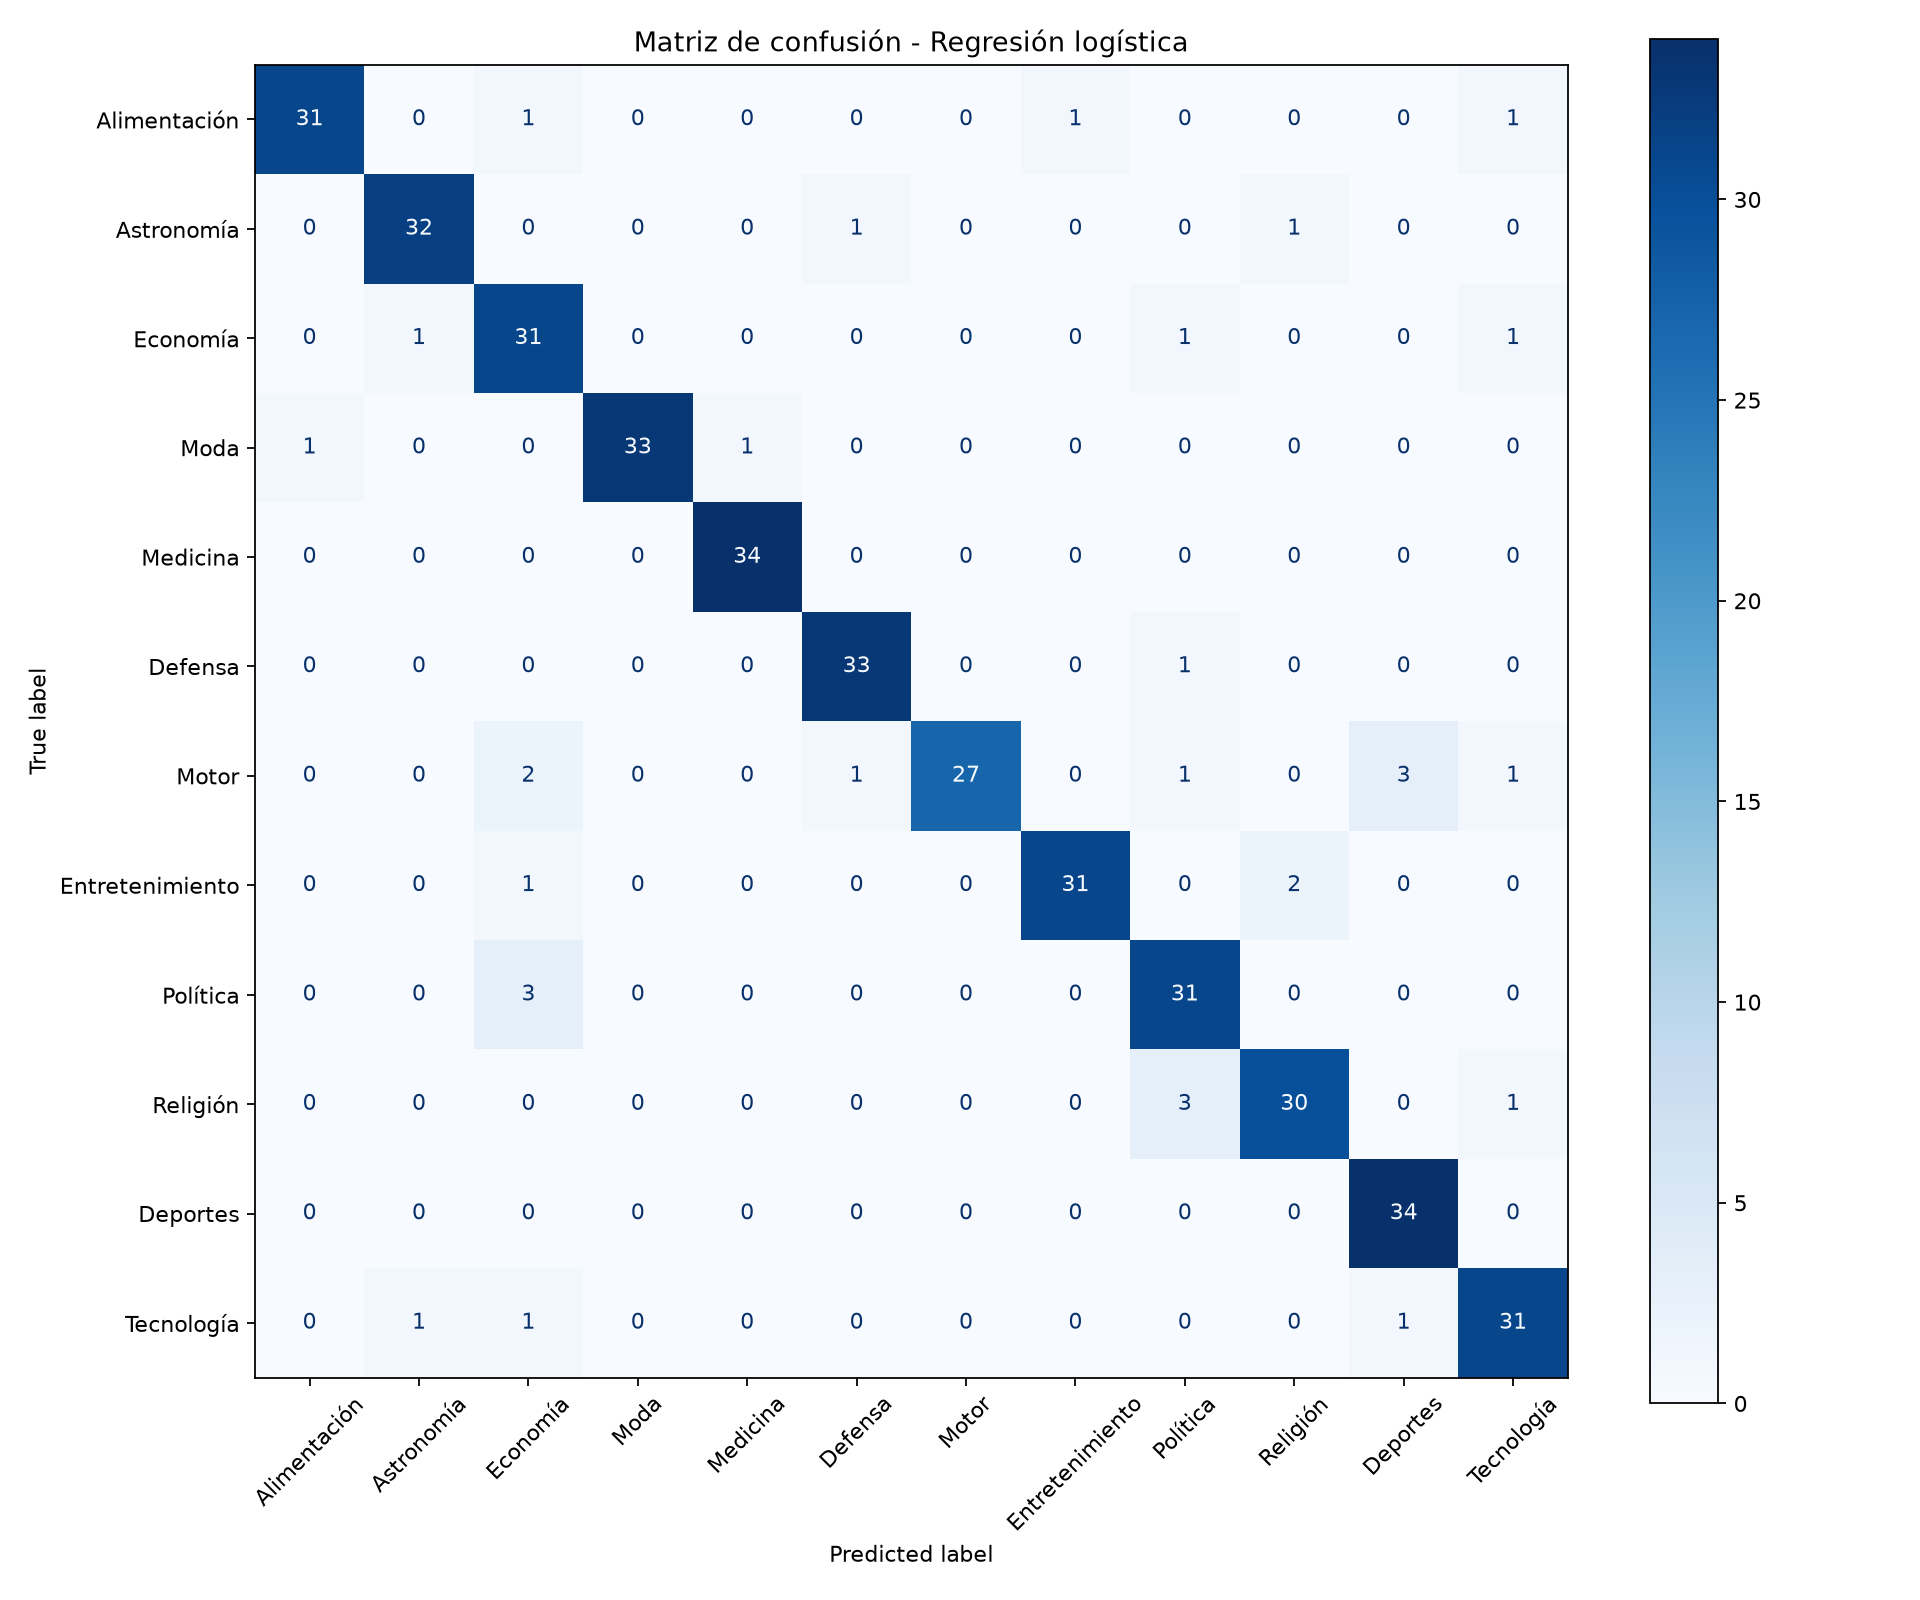
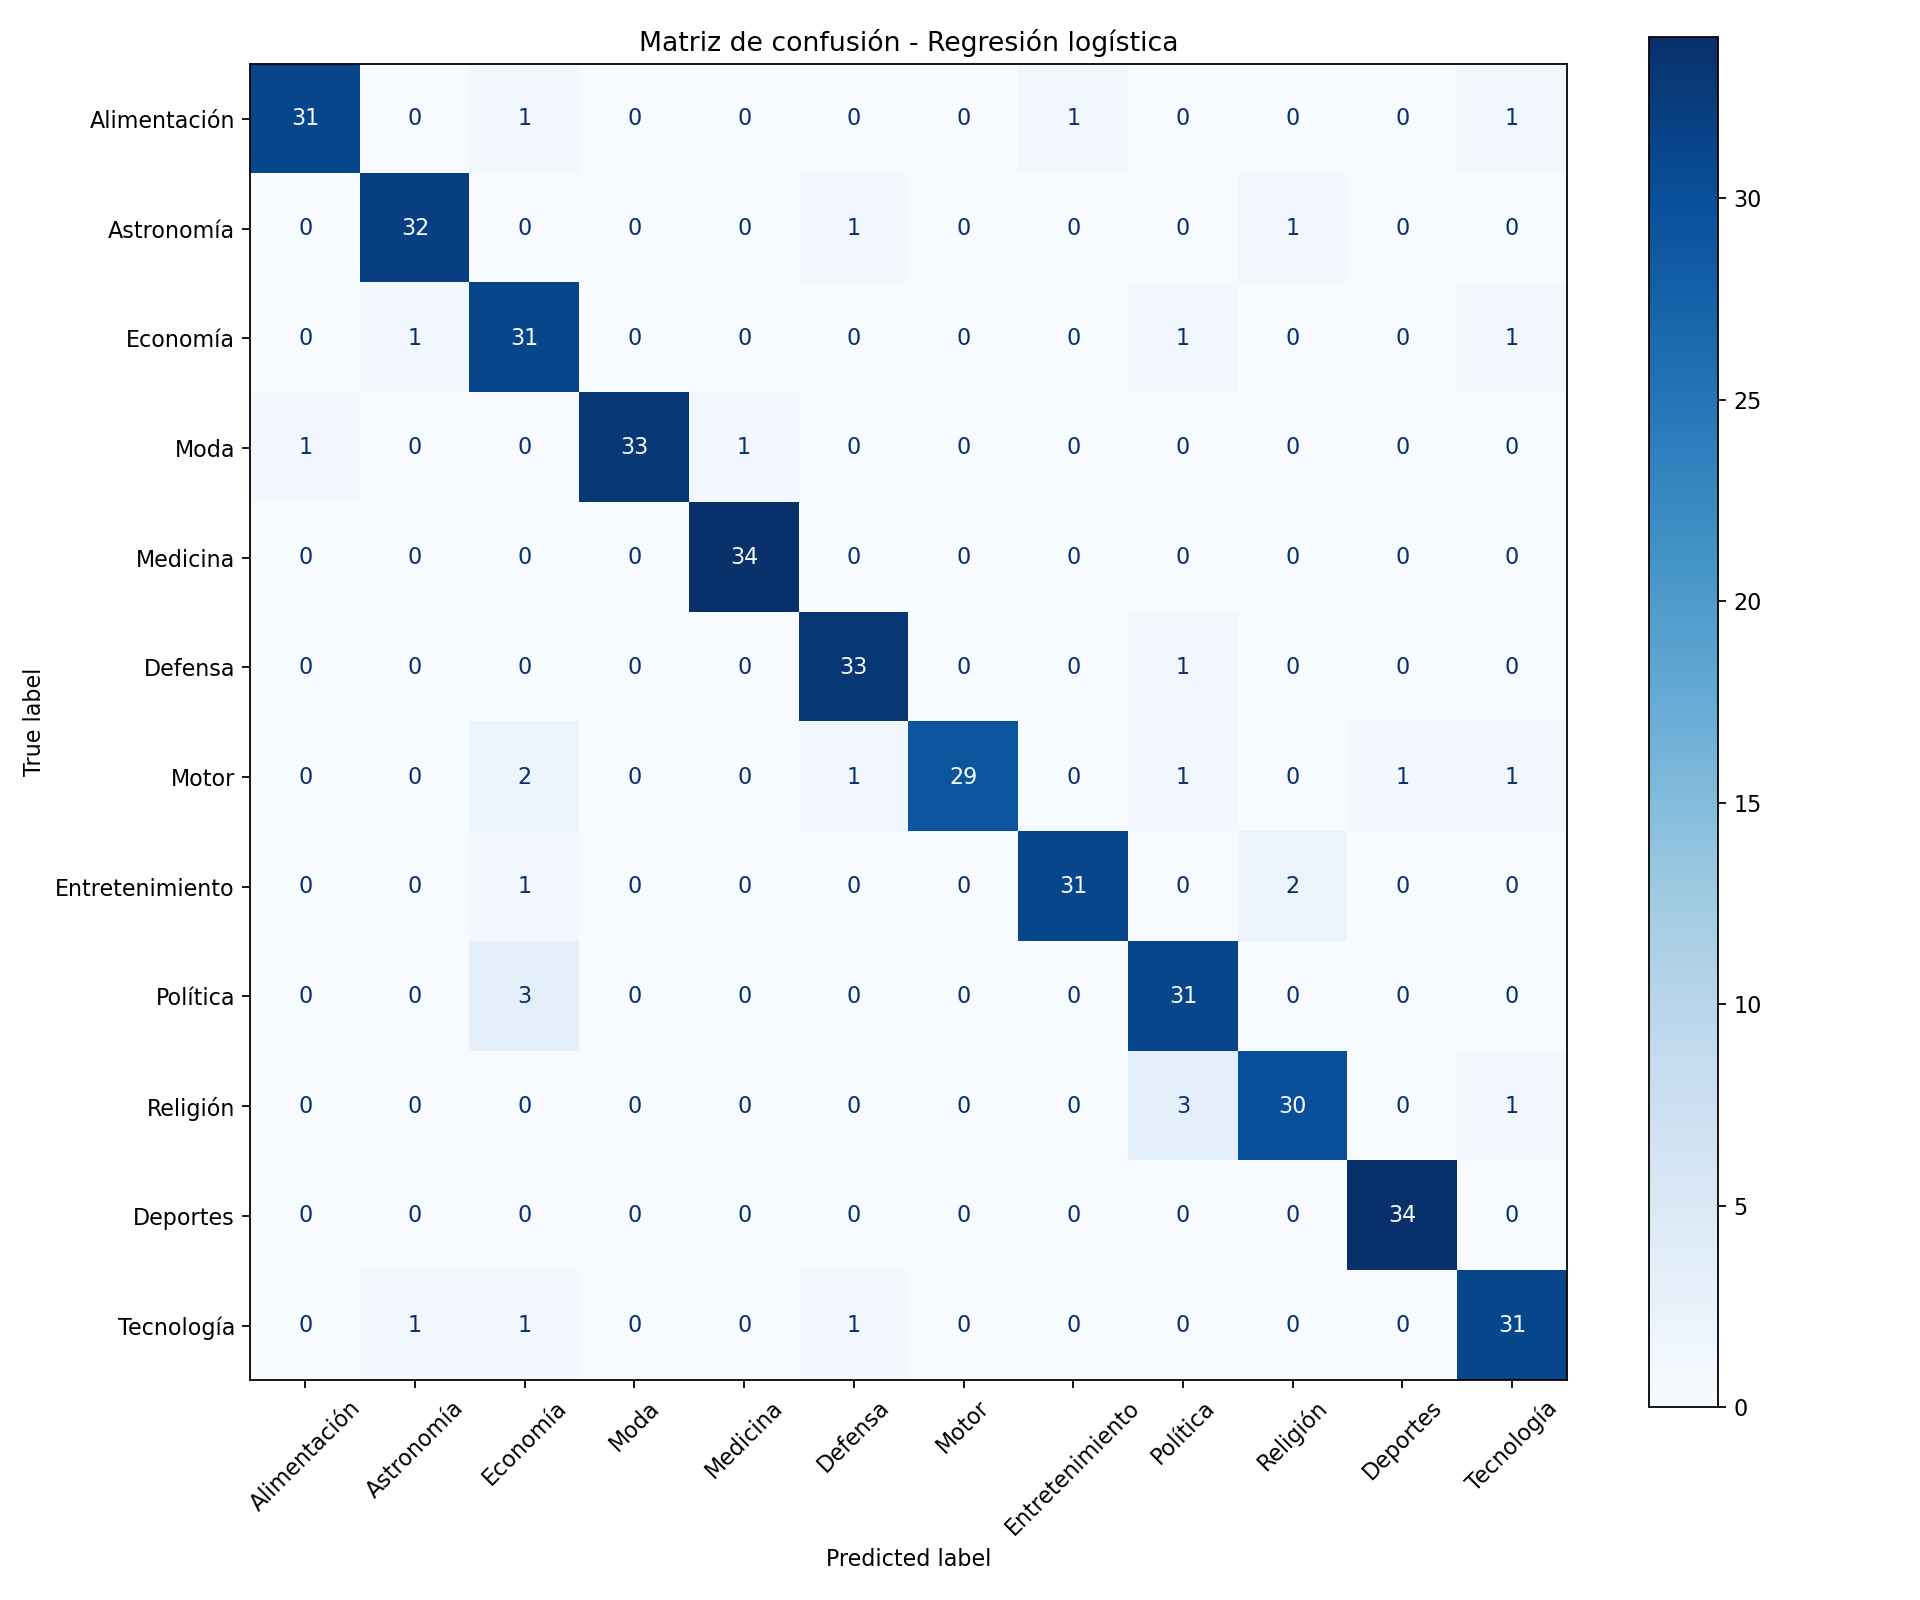
registro de experimentos finales y actualizacion de reportes de rendimiento para entrega 2

diff --git a/src/experiments.py b/src/experiments.py
@@ -44,6 +44,24 @@ CONFIGURATIONS = {
         "sublinear_tf": True,
         "c_value": 2.0,
     },
+    "logistic_regression_classmates": {
+        "ngram_range": (1, 2),
+        "max_features": 80_000,
+        "sublinear_tf": True,
+        "c_value": 4.0,
+    },
+    "logistic_regression_regularized": {
+        "ngram_range": (1, 2),
+        "max_features": 60_000,
+        "sublinear_tf": True,
+        "c_value": 0.5,
+    },
+    "logistic_regression_trigrams": {
+        "ngram_range": (1, 3),
+        "max_features": 100_000,
+        "sublinear_tf": True,
+        "c_value": 3.0,
+    },
 }
 
 

diff --git a/src/train.py b/src/train.py
@@ -54,14 +54,14 @@ def build_pipeline() -> Pipeline:
                     ngram_range=(1, 2),
                     min_df=2,
                     max_df=0.95,
-                    max_features=50_000,
+                    max_features=80_000,
                     sublinear_tf=True,
                 ),
             ),
             (
                 "classifier",
                 LogisticRegression(
-                    C=2.0,
+                    C=4.0,
                     max_iter=1_000,
                     random_state=RANDOM_STATE,
                 ),
